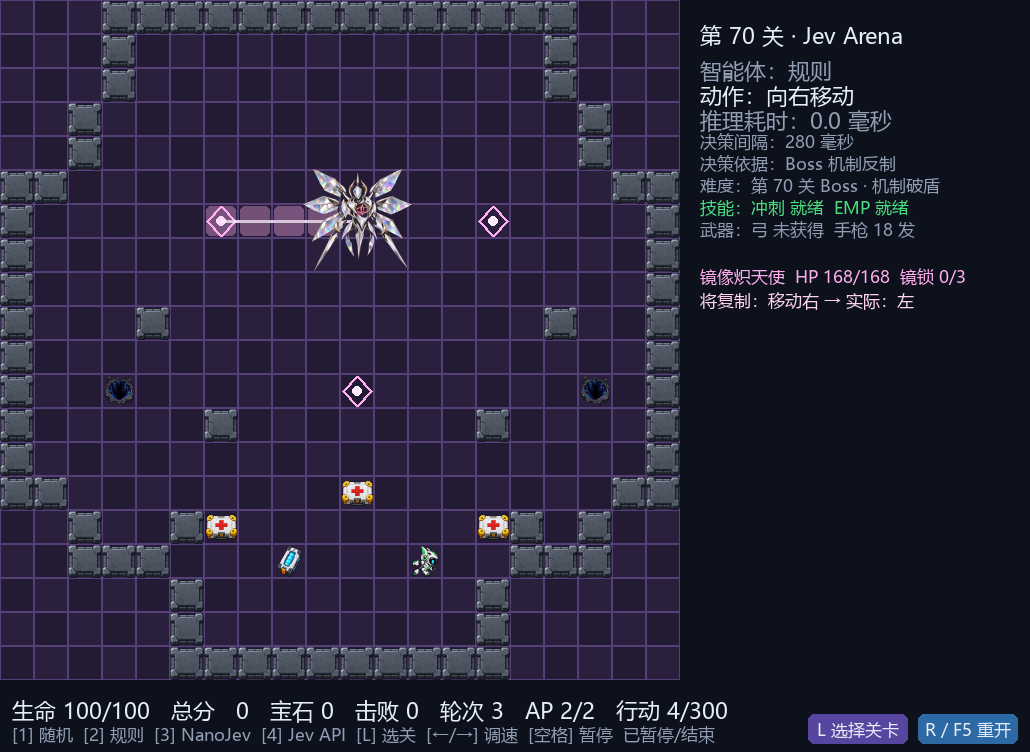
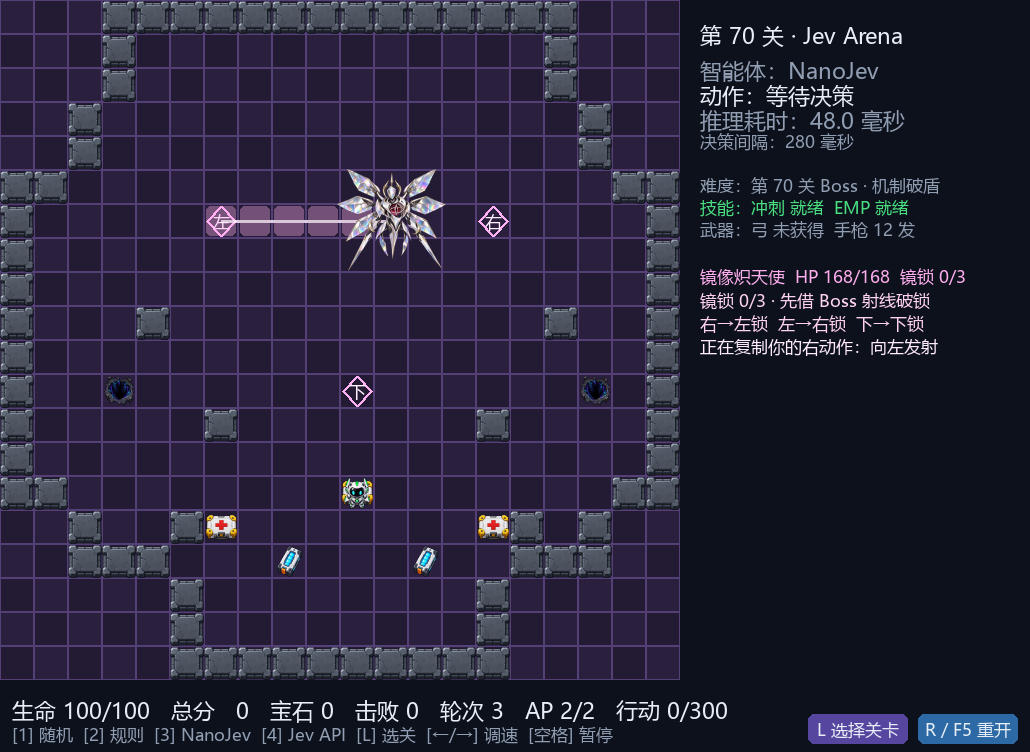
Clarify mirror boss and fix siege inference candidates

diff --git a/arena/renderer.py b/arena/renderer.py
@@ -133,14 +133,16 @@ class ArenaRenderer:
             pg.draw.circle(self.screen, (98, 119, 88) if used else (133, 236, 122), center, 16, 3)
             pg.draw.line(self.screen, (255, 201, 102),
                          (center[0] - 8, center[1] + 8), (center[0] + 8, center[1] - 8), 2)
-        for position in env.mirror_locks:
+        for position in sorted(env.mirror_locks):
             broken = isinstance(env.boss, MirrorSeraph) and position in env.boss.broken_locks
             center = (position[0] * self.CELL + self.CELL // 2,
                       position[1] * self.CELL + self.CELL // 2)
             pg.draw.polygon(self.screen, (104, 91, 123) if broken else (255, 176, 244),
                             [(center[0], center[1] - 15), (center[0] + 14, center[1]),
                              (center[0], center[1] + 15), (center[0] - 14, center[1])], 3)
-            pg.draw.circle(self.screen, (106, 94, 124) if broken else (255, 236, 255), center, 5)
+            mark = {(6, 6): "左", (14, 6): "右", (10, 11): "下"}[position]
+            label = self.small.render(mark, True, (130, 112, 143) if broken else (255, 239, 255))
+            self.screen.blit(label, label.get_rect(center=center))
         for position in env.rail_locks:
             broken = isinstance(env.boss, SiegeLeviathan) and position in env.boss.broken_locks
             center = (position[0] * self.CELL + self.CELL // 2,
@@ -490,20 +492,31 @@ class ArenaRenderer:
                 label, tint = "棱镜守卫", (244, 164, 255)
             self._text(f"{label}  HP {env.boss.hp}/{env.boss.max_hp}  {state}",
                        left, 265, tint, small=True)
-            if isinstance(env.boss, MirrorSeraph) and env.boss.copied_action:
-                directions = {"n": "上", "s": "下", "e": "右", "w": "左"}
-                copied = env.boss.copied_action
-                kind = ("冲刺" if copied.startswith("dash_") else "移动" if copied.startswith("move_")
-                        else "射击" if copied.startswith("shoot_") else "近战" if copied.startswith("attack_")
-                        else "治疗" if copied == "heal" else "电磁" if copied == "emp" else copied)
-                original = directions.get(copied[-1], "—")
-                mirrored = directions.get(env.boss.mirrored_direction, "—")
-                self._text(f"将复制：{kind}{original} → 实际：{mirrored}", left, 289,
-                           (255, 210, 242), small=True)
-            if isinstance(env.boss, SiegeLeviathan) and env.boss.rail_target is not None:
-                lane = "列" if env.boss.rail_axis == "v" else "行"
-                self._text(f"轨道炮：{lane} {env.boss.rail_target} · 蓄力 {env.boss.charge}",
+            if isinstance(env.boss, MirrorSeraph):
+                self._text(f"镜锁 {len(env.boss.broken_locks)}/3 · 先借 Boss 射线破锁",
+                           left, 289, (255, 210, 242), small=True)
+                if env.boss.exposed_rounds:
+                    self._text("护盾已破：现在攻击 Boss 本体！", left, 312,
+                               (179, 255, 200), small=True)
+                else:
+                    self._text("右→左锁  左→右锁  下→下锁", left, 312,
+                               (255, 210, 242), small=True)
+                if env.boss.copied_action:
+                    directions = {"n": "上", "s": "下", "e": "右", "w": "左"}
+                    original = directions.get(env.boss.copied_action[-1], "—")
+                    mirrored = directions.get(env.boss.mirrored_direction, "—")
+                    self._text(f"正在复制你的{original}动作：向{mirrored}发射", left, 335,
+                               (255, 235, 253), small=True)
+            if isinstance(env.boss, SiegeLeviathan):
+                self._text(f"装甲锁 {len(env.boss.broken_locks)}/4 · 炮击掩体破锁",
                            left, 289, (255, 214, 168), small=True)
+                if env.boss.rail_target is not None:
+                    lane = "列" if env.boss.rail_axis == "v" else "行"
+                    self._text(f"轨道炮：{lane} {env.boss.rail_target} · 蓄力 {env.boss.charge}",
+                               left, 312, (255, 214, 168), small=True)
+                else:
+                    self._text("站掩体后引导炮线；破盾后攻击本体", left, 312,
+                               (255, 214, 168), small=True)
             if isinstance(env.boss, NullWeaver) and not env.boss.exposed_rounds:
                 labels = {"move": "普通移动", "melee": "近战", "ranged": "远程", "skill": "技能"}
                 blocked = labels.get(env.boss.blocked_kind, "无")
@@ -546,8 +559,8 @@ class ArenaRenderer:
         self._text(f"武器：弓 {'未获得' if not loadout.bow else f'{loadout.arrows} 箭'}  "
                    f"手枪 {'未获得' if not loadout.pistol else f'{loadout.energy} 发'}",
                    left, 218, colors["muted"], small=True)
-        y = 294 if env.boss else 245
-        for name, probability in sorted(probabilities.items(), key=lambda item: item[1], reverse=True):
+        y = 365 if env.boss else 245
+        for name, probability in sorted(probabilities.items(), key=lambda item: item[1], reverse=True)[:7 if env.boss else 11]:
             self._text(f"{ACTION_NAMES.get(name, name)}  {probability:>6.1%}", left, y,
                        colors["text"], small=True)
             pg.draw.rect(self.screen, colors["grid"], (left, y + 20, 290, 8))

diff --git a/arena/candidates.py b/arena/candidates.py
@@ -114,20 +114,24 @@ def build_candidates(env: ArenaEnv) -> dict[str, str]:
                 description += f"; kit {before}->{after}"
         elif action.value.startswith("shove_"):
             direction = action.value[-1]
-            enemy = env.enemy_at(env.add(env.player.position, direction))
-            destination = env.add(enemy.position, direction)
-            if destination in env.pits:
-                description += " into pit; instant kill"
-            elif destination in env.fires:
-                description += f" into fire; damage={env.config.fire_damage}"
-            elif destination in env.spikes:
-                description += f" into spike; damage={env.config.spike_damage}"
-            elif destination in env.walls:
-                description += f" into wall; damage={env.config.collision_damage}"
-            elif env.enemy_at(destination):
-                description += f" into enemy; both damage={env.config.collision_damage}"
+            target = env.add(env.player.position, direction)
+            enemy = env.enemy_at(target)
+            if enemy is None:
+                description += "; push rail cover x1"
             else:
-                description += " x1"
+                destination = env.add(enemy.position, direction)
+                if destination in env.pits:
+                    description += " into pit; instant kill"
+                elif destination in env.fires:
+                    description += f" into fire; damage={env.config.fire_damage}"
+                elif destination in env.spikes:
+                    description += f" into spike; damage={env.config.spike_damage}"
+                elif destination in env.walls:
+                    description += f" into wall; damage={env.config.collision_damage}"
+                elif env.enemy_at(destination):
+                    description += f" into enemy; both damage={env.config.collision_damage}"
+                else:
+                    description += " x1"
         elif action.value.startswith("dash_"):
             direction = action.value[-1]
             middle = env.add(env.player.position, direction)
@@ -148,11 +152,16 @@ def build_candidates(env: ArenaEnv) -> dict[str, str]:
             range_ = env.config.bow_range if weapon == "bow" else env.config.pistol_range
             enemy_target = env._ray_target(env.player.position, action.value[-1], range_)
             barrel_target = env._barrel_target(env.player.position, action.value[-1], range_)
-            if barrel_target and (not enemy_target or barrel_target[1] < enemy_target[1]):
+            gate_distance = env._apex_gate_distance(action.value[-1], range_)
+            if gate_distance is not None:
+                description += f"; break cage gate/{gate_distance}"
+            elif barrel_target and (not enemy_target or barrel_target[1] < enemy_target[1]):
                 description += f"; barrel/{barrel_target[1]} blast"
-            else:
+            elif enemy_target:
                 enemy, distance = enemy_target
                 damage = env.config.bow_damage if weapon == "bow" else env.config.pistol_damage
+                boss_types = (PrismWarden, FurnaceHydra, StormChoir, ChronoMantis, VoidAngler,
+                              IronGardener, MirrorSeraph, SiegeLeviathan, NullWeaver, ApexArbiter)
                 kind = ("prism_warden" if isinstance(enemy, PrismWarden) else
                         "furnace_hydra" if isinstance(enemy, FurnaceHydra) else
                         "storm_choir" if isinstance(enemy, StormChoir) else
@@ -161,12 +170,15 @@ def build_candidates(env: ArenaEnv) -> dict[str, str]:
                         "iron_gardener" if isinstance(enemy, IronGardener) else
                         "mirror_seraph" if isinstance(enemy, MirrorSeraph) else
                         "siege_leviathan" if isinstance(enemy, SiegeLeviathan) else
-                        "null_weaver" if isinstance(enemy, NullWeaver) else enemy.enemy_type.value)
-                remaining = (max(0, enemy.hp - damage) if not isinstance(enemy, (PrismWarden, FurnaceHydra, StormChoir, ChronoMantis, VoidAngler, IronGardener, MirrorSeraph, SiegeLeviathan, NullWeaver))
+                        "null_weaver" if isinstance(enemy, NullWeaver) else
+                        "apex_arbiter" if isinstance(enemy, ApexArbiter) else enemy.enemy_type.value)
+                remaining = (max(0, enemy.hp - damage) if not isinstance(enemy, boss_types)
                              or enemy.exposed_rounds else enemy.hp)
                 description += f"; {kind}/{distance} hp {enemy.hp}->{remaining}"
-                if weapon == "bow" and not isinstance(enemy, (PrismWarden, FurnaceHydra, StormChoir, ChronoMantis, VoidAngler, IronGardener, MirrorSeraph, SiegeLeviathan, NullWeaver)) and enemy.hp > damage:
+                if weapon == "bow" and not isinstance(enemy, boss_types) and enemy.hp > damage:
                     description += "; push=1"
+            else:
+                description += "; no target"
         consequence = _immediate_consequence(env, action)
         candidates[action.value] = description + ("; immediate: " + consequence if consequence else "")
     return candidates

diff --git a/tests/test_boss.py b/tests/test_boss.py
@@ -682,6 +682,12 @@ class MirrorBossTests(unittest.TestCase):
 
 
 class SiegeBossTests(unittest.TestCase):
+    def test_cover_shove_is_a_valid_model_candidate(self):
+        env = ArenaEnv(campaign_config(80))
+        env.step("dash_n")
+        self.assertEqual(env.player.position, (10, 14))
+        self.assertIn("rail cover", build_candidates(env)["shove_n"])
+
     def test_heavy_reposition_only_before_rail_lock(self):
         env = ArenaEnv(campaign_config(80))
         env.player.position = (7, 12)
